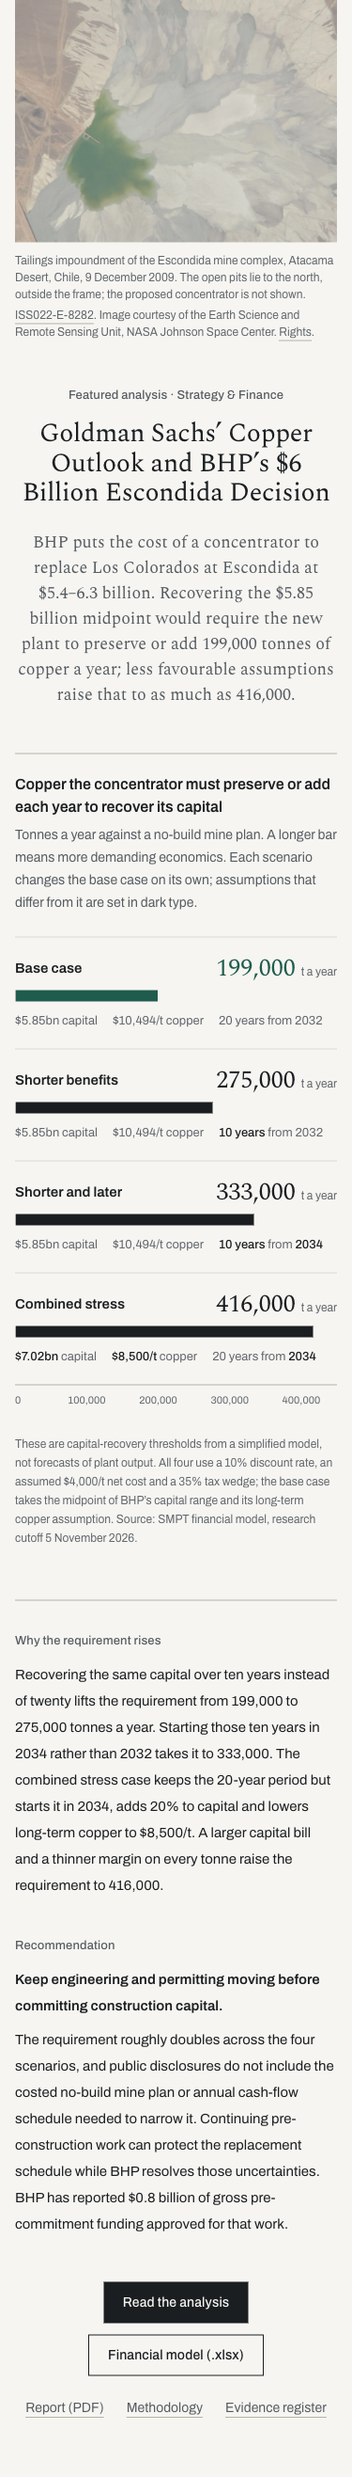
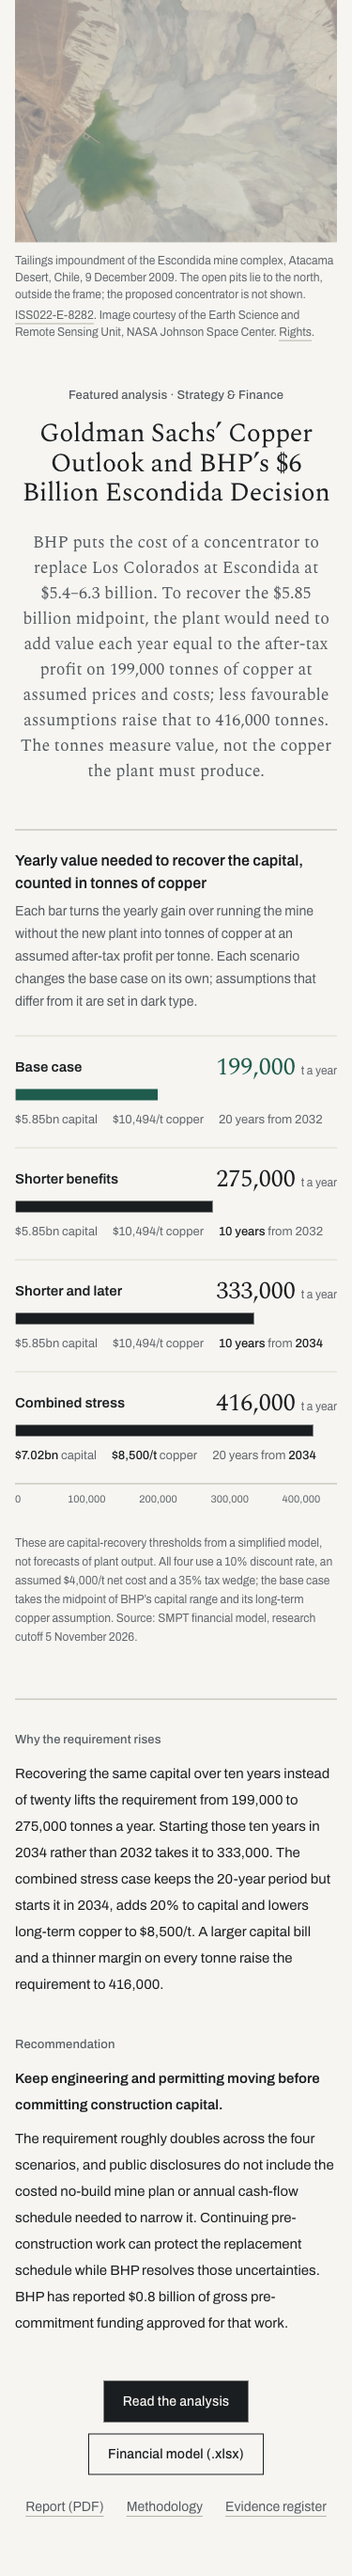
Present the featured thresholds as value counted in tonnes, not output
The standfirst and chart heading now say the 199,000-416,000 t a year figures
are the yearly value needed to recover the capital, counted as after-tax profit
on that many tonnes of copper at assumed prices and costs, not copper the plant
must produce. Design and all calculations unchanged; screenshots retaken.

diff --git a/components/home/featured-case.tsx b/components/home/featured-case.tsx
@@ -63,20 +63,23 @@ export function FeaturedCase() {
             </Link>
           </h2>
           <p className="standfirst mt-6">
-            BHP puts the cost of a concentrator to replace Los Colorados at Escondida at $5.4–6.3 billion. Recovering the
-            $5.85 billion midpoint would require the new plant to preserve or add {tonnes(baseScreen.ktpa)}{" "}
-            tonnes of copper a year; less favourable assumptions raise that to as much as {tonnes(stress.ktpa)}.
+            BHP puts the cost of a concentrator to replace Los Colorados at Escondida at $5.4–6.3 billion. To
+            recover the $5.85 billion midpoint, the plant would need to add value each year equal to the after-tax
+            profit on {tonnes(baseScreen.ktpa)} tonnes of copper at assumed prices and costs; less favourable
+            assumptions raise that to {tonnes(stress.ktpa)} tonnes. The tonnes measure value, not the copper the
+            plant must produce.
           </p>
         </div>
 
         <figure className="mx-auto mt-12 max-w-5xl sm:mt-16" aria-labelledby="featured-exhibit-title">
           <figcaption className="border-t border-border-strong pt-5">
             <p id="featured-exhibit-title" className="font-display text-base font-semibold text-foreground sm:text-lg">
-              Copper the concentrator must preserve or add each year to recover its capital
+              Yearly value needed to recover the capital, counted in tonnes of copper
             </p>
             <p className="mt-1.5 max-w-2xl font-display text-sm leading-6 text-muted">
-              Tonnes a year against a no-build mine plan. A longer bar means more demanding economics. Each
-              scenario changes the base case on its own; assumptions that differ from it are set in dark type.
+              Each bar turns the yearly gain over running the mine without the new plant into tonnes of copper at
+              an assumed after-tax profit per tonne. Each scenario changes the base case on its own; assumptions
+              that differ from it are set in dark type.
             </p>
           </figcaption>
 

diff --git a/tests/featured-analysis.test.ts b/tests/featured-analysis.test.ts
@@ -32,6 +32,10 @@ test("each scenario marks only the assumptions that differ from the base case", 
 
 test("featured analysis separates modeled thresholds from output and keeps its downloads", () => {
   assert.match(html, /not forecasts of plant output/);
+  // The tonnes are a money benefit translated through an assumed margin, not physical output the plant must reach.
+  assert.match(html, /after-tax\s+profit on 199,000 tonnes of copper at assumed prices and costs/);
+  assert.match(html, /The tonnes measure value, not the copper the\s+plant must produce\./);
+  assert.match(html, /counted in tonnes of copper/);
   assert.match(html, /\$0\.8 billion of gross pre-commitment funding approved/);
   assert.match(html, /research cutoff 5 November 2026/);
   assert.doesNotMatch(html, /230–270/, "the plant's design output is not drawn beside the requirement");

diff --git a/PROJECT_STATE.md b/PROJECT_STATE.md
@@ -2,7 +2,7 @@
 
 - Branch `claude/featured-analysis-redesign-3945be`, from `main` at ddadcdc. Only `components/home/featured-case.tsx`, a `.featured-track` rule in `app/globals.css`, a new `tests/featured-analysis.test.ts` and screenshots in `docs/design/reviews/featured-analysis/`. `lib/fi002.ts`, the article, the model, the CSV and every download are unchanged.
 - The four big numerals became one zero-based horizontal bar exhibit (0–450,000 t a year): Base case 199,000, Shorter benefits 275,000, Shorter and later 333,000, Combined stress 416,000. Each row lists capital, copper price and benefit period; assumptions that differ from the base case are set in dark type (with screen-reader text). Values come from `fi002Screens`; verified against `threshold-sensitivities.csv`, `model.xlsx` and the methodology formula.
-- Wording: "copper the concentrator must preserve or add each year", not "copper-equivalent" (a by-product conversion term the model does not use). The 230–270 ktpa design output is deliberately not drawn beside the thresholds (methodology: it cannot be equated to the requirement). Added "Why the requirement rises", the recommendation, and a source/cut-off line.
+- Wording: the standfirst and chart heading present the figures as yearly value counted in tonnes of copper (the after-tax profit on that many tonnes at assumed prices and costs), not copper the plant must produce; "copper-equivalent" avoided (a by-product conversion term the model does not use). The 230–270 ktpa design output is deliberately not drawn beside the thresholds (methodology: it cannot be equated to the requirement). Added "Why the requirement rises", the recommendation, and a source/cut-off line.
 - Verified locally: `validate`, `lint` (0 errors), `typecheck`, 1285 tests, `build`; browser check at 1440 and 375 px, no horizontal overflow. House-style checklist applied to the new copy (standfirst now states the result directly and names Los Colorados); no human editorial sign-off yet.
 
 ## 2026-11-11: Publication design system migration to the Architectural Research Studio identity (draft PR, not merged)
